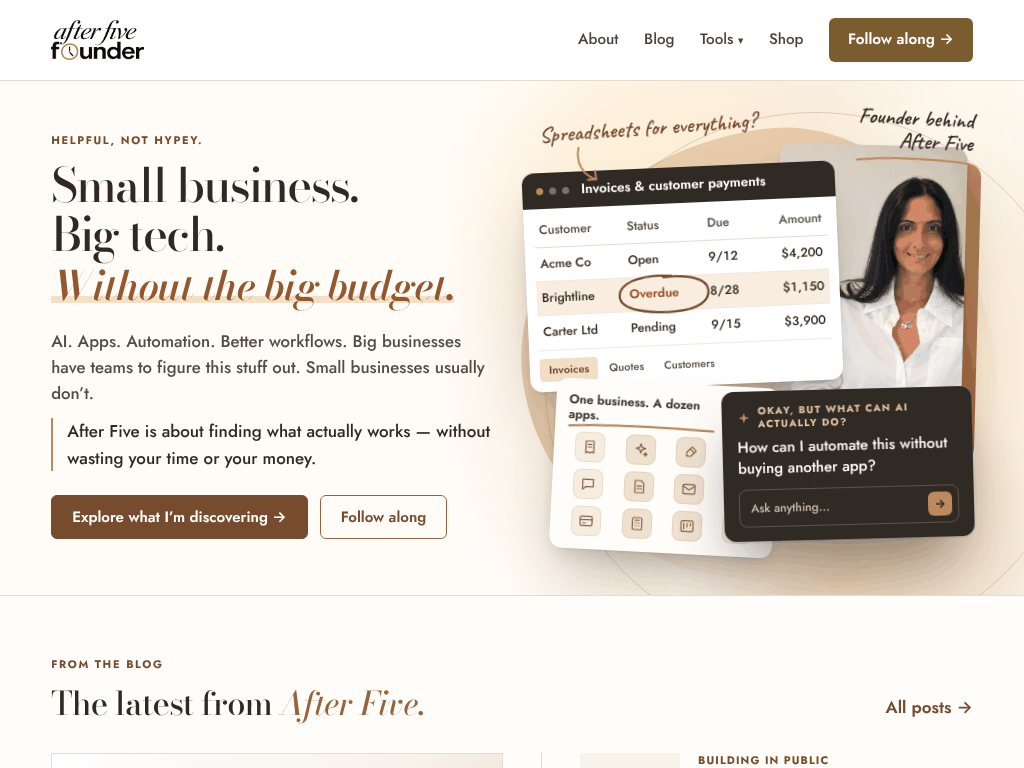
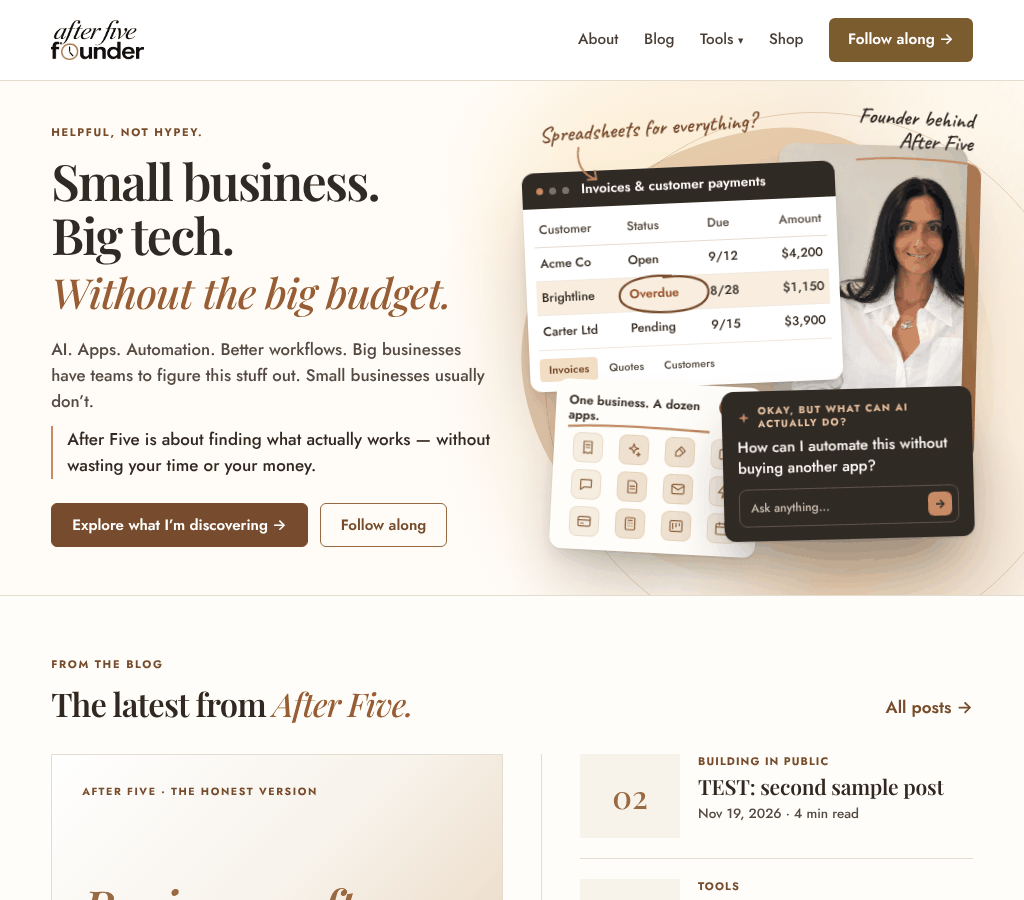
Replace Bodoni with Playfair Display for headings
Bodoni's hairline strokes were hard to read. Playfair Display (real 500,
600 and 700 weights, upright and italic) now sets the hero headline (600),
the bronze italic 'Without the big budget.' (italic 500), section headings
and article headlines (600) across the homepage, shop, Costing Suite and
the Worker-rendered pages. Body, navigation and buttons stay Jost; the
handwritten notes and the logo are unchanged. The hero headline is sized
so the italic line stays on one line from phone to desktop.

Claude-Session: https://claude.ai/code/session_01EWUL5sKaSTExd4HKL3qh3L

diff --git a/public/index.html b/public/index.html
@@ -21,7 +21,7 @@
 <meta name="twitter:image" content="https://afterfivefounder.com/assets/og.jpg">
 <link rel="preconnect" href="https://fonts.googleapis.com">
 <link rel="preconnect" href="https://fonts.gstatic.com" crossorigin>
-<link href="https://fonts.googleapis.com/css2?family=Jost:wght@300..800&family=Bodoni+Moda:ital,opsz,wght@0,6..96,400;0,6..96,500;1,6..96,500;1,6..96,600;1,6..96,700&family=Caveat:wght@500;600;700&display=swap" rel="stylesheet">
+<link href="https://fonts.googleapis.com/css2?family=Jost:wght@300..800&family=Playfair+Display:ital,wght@0,500;0,600;0,700;1,500;1,600;1,700&family=Caveat:wght@500;600;700&display=swap" rel="stylesheet">
 <link rel="stylesheet" href="/assets/site.css">
 <style>
 /* Homepage. Layout and tokens follow design/after-five-target (02-design-tokens.css, 03-reference.html). */
@@ -29,7 +29,7 @@
   --paper:#fffdfa; --white:#fff; --cream:#f7f2ea; --stone:#ede4d8;
   --ink:#302821; --muted:#554B42; --body-ink:#4b4239;
   --bronze:#98633d; --bronze-dark:#774b2e; --line:#e5dcd0;
-  --serif:'Bodoni Moda',Didot,Georgia,serif; --sans:'Jost',system-ui,sans-serif; --hand:'Caveat',cursive;
+  --serif:'Playfair Display',Georgia,serif; --sans:'Jost',system-ui,sans-serif; --hand:'Caveat',cursive;
   --max:1240px; --gutter:clamp(20px,5vw,72px); --section:clamp(48px,6vw,88px);
   --radius:12px; --shadow:0 16px 40px rgba(73,51,33,.08);
   --h1:clamp(42px,5.1vw,76px); --h2:clamp(32px,3.2vw,48px);
@@ -42,14 +42,13 @@ body{background:var(--paper);color:var(--ink);font:500 17px/1.55 var(--sans);-we
 img{max-width:100%;display:block}
 a{color:inherit;text-decoration:none}
 h1,h2,h3,p{margin:0}
-h1,h2,h3,.lt-tile .k,.lt-item .n,.pc .t,.founder-copy .turn,.hats-close,.founder-copy .sign,.founder-fig figcaption,.hats-fig figcaption,.calc-out .big{font-optical-sizing:none;font-variation-settings:"opsz" 28}
 .wrap{width:var(--sx-wrap);margin-inline:auto}
 section{position:relative}
 
 /* type */
 .eyebrow{display:block;margin:0 0 14px;font:700 11px/1.3 var(--sans);letter-spacing:.15em;text-transform:uppercase;color:var(--bronze-dark)}
-.h2{font:500 var(--h2)/1.08 var(--serif);letter-spacing:-.02em;color:var(--ink)}
-.h2 em{font-style:italic;color:var(--bronze)}
+.h2{font:600 var(--h2)/1.1 var(--serif);letter-spacing:-.025em;color:var(--ink)}
+.h2 em{font-style:italic;font-weight:500;color:#995D35}
 .lead{font-size:1.06rem;color:var(--muted);max-width:56ch;margin-top:12px}
 .link-more{font-weight:600;color:var(--bronze-dark);white-space:nowrap;border-bottom:1px solid transparent;transition:border-color .15s}
 .link-more:hover{border-bottom-color:currentColor}
@@ -83,9 +82,10 @@ section{position:relative}
 .hero-bg .beam{top:-30%;right:10%;width:22%;height:170%;background:linear-gradient(90deg,rgba(255,248,236,0),rgba(255,248,236,.85) 50%,rgba(255,248,236,0));transform:rotate(30deg);filter:blur(8px)}
 .hero-bg .ring{top:6%;right:-6%;width:540px;height:540px;border:1px solid rgba(187,140,91,.35);border-radius:50%}
 .hero-bg .ring2{top:22%;right:6%;width:300px;height:300px;border:1px dashed rgba(187,140,91,.25);border-radius:50%}
-.hero-grid{display:grid;grid-template-columns:minmax(0,.95fr) minmax(0,1.05fr);gap:40px;align-items:center;padding-block:30px 34px}
-.hero h1{font:500 clamp(40px,4.6vw,68px)/1.04 var(--serif);letter-spacing:-.035em;color:var(--ink)}
-.hero h1 .accent{display:inline-block;margin-top:.08em;font-style:italic;font-weight:600;font-size:.86em;letter-spacing:-.025em;color:#93582f;background:linear-gradient(transparent 76%,rgba(243,222,194,.95) 76%,rgba(243,222,194,.95) 93%,transparent 93%)}
+.hero-grid{display:grid;grid-template-columns:minmax(0,1fr) minmax(0,1fr);gap:40px;align-items:center;padding-block:30px 34px}
+.hero h1{font:600 clamp(40px,4.9vw,74px)/1.08 var(--serif);letter-spacing:-.035em;color:#302A25}
+.hero h1 .accent{display:inline-block;margin-top:.04em;font-style:italic;font-weight:500;font-size:.83em;line-height:1.15;letter-spacing:-.02em;color:#995D35;white-space:nowrap}
+@media(max-width:370px){.hero h1 .accent{white-space:normal}}
 .hero .sub{max-width:470px;margin-top:20px;font-size:1.05rem;color:var(--muted)}
 .hero .mark{max-width:470px;margin-top:12px;padding-left:14px;border-left:2px solid var(--rich-bronze);font-weight:500;color:var(--ink)}
 .hero .cta{display:flex;flex-wrap:wrap;gap:12px;margin-top:24px}
@@ -117,9 +117,9 @@ section{position:relative}
 .sheet-tabs span{padding:3px 9px;border-radius:4px}
 .sheet-tabs .on{background:var(--champagne);color:var(--bronze-dark);font-weight:600}
 /* 2. subscriptions: medium card, warm neutral icons */
-.p-apps{bottom:8px;left:11%;width:39%;padding:12px 13px 13px;z-index:4;transform:rotate(3deg);background:#fffdf9}
+.p-apps{bottom:8px;left:7%;width:44%;padding:12px 13px 13px;z-index:4;transform:rotate(3deg);background:#fffdf9}
 .apps-head{display:flex;align-items:baseline;justify-content:space-between;gap:8px;margin-bottom:9px}
-.apps-head b{position:relative;font:600 13.5px/1.2 var(--sans);color:var(--ink)}
+.apps-head b{position:relative;font:600 13px/1.2 var(--sans);white-space:nowrap;color:var(--ink)}
 .apps-head .uline{position:absolute;left:-2px;bottom:-7px;width:calc(100% + 4px);height:9px;overflow:visible;color:var(--rich-bronze)}
 .apps-head .count{flex:none;padding:3px 8px;border-radius:999px;background:var(--champagne);color:var(--bronze-dark);font:700 11px/1.2 var(--sans);font-variant-numeric:tabular-nums;transition:background-color .4s,color .4s,transform .4s}
 .apps-grid{display:grid;grid-template-columns:repeat(4,minmax(0,1fr));gap:7px 4px}
@@ -141,7 +141,7 @@ section{position:relative}
 .note-sheet svg{left:30px;top:22px;width:40px;height:42px}
 .note-founder{top:-4px;right:0;text-align:right;transform:rotate(3deg);color:var(--ink)}
 .note-founder svg{position:static;display:block;width:118px;height:10px;margin:3px 0 0 auto}
-.note-apps{top:296px;left:-6%;max-width:118px;transform:rotate(-6deg)}
+.note-apps{top:290px;left:-9%;max-width:118px;transform:rotate(-6deg)}
 .note-apps svg{left:84px;top:58px;width:38px;height:40px;transform:rotate(-58deg)}
 /* hand-drawn strokes: drawn in by the sequence below */
 .draw path{stroke-dasharray:1;stroke-dashoffset:0}
@@ -183,7 +183,8 @@ section{position:relative}
   .app small{display:none}
   .p-ai{width:56%}
   .note-apps{display:none}
-  .apps-head b{font-size:12.5px}
+  .apps-head b{font-size:12.5px;white-space:normal}
+  .p-apps{width:46%}
 }
 @media(max-width:900px){
   .hero-grid{grid-template-columns:1fr;gap:20px;padding-block:32px 36px}
@@ -226,7 +227,7 @@ section{position:relative}
 .lt-tile .rule{display:block;width:56px;height:2px;margin-top:14px;background:var(--bronze)}
 .lt-kicker{display:flex;flex-wrap:wrap;align-items:center;gap:8px;font:700 11px/1.3 var(--sans);letter-spacing:.1em;text-transform:uppercase;color:var(--bronze-dark)}
 .lt-kicker .new{padding:3px 8px;border-radius:4px;background:var(--bronze-dark);color:#fff;letter-spacing:.08em}
-.lt-feat h3{font:500 clamp(26px,2.5vw,34px)/1.12 var(--serif);letter-spacing:-.015em;color:var(--ink);max-width:24ch}
+.lt-feat h3{font:600 clamp(26px,2.5vw,34px)/1.12 var(--serif);letter-spacing:-.015em;color:var(--ink);max-width:24ch}
 .lt-feat:hover h3,.lt-item:hover h3{color:var(--bronze-dark)}
 .lt-feat p{color:var(--muted);max-width:56ch}
 .lt-meta{font-size:13.5px;color:var(--muted)}
@@ -235,9 +236,9 @@ section{position:relative}
 .lt-list li:first-child .lt-item{padding-top:0}
 .lt-item{display:grid;grid-template-columns:100px minmax(0,1fr);grid-template-rows:auto auto 1fr;column-gap:18px;row-gap:6px;padding:20px 0;color:var(--ink)}
 .lt-item .n{grid-row:1/4;display:grid;place-items:center;align-self:stretch;min-height:84px;background:var(--cream);font:500 32px/1 var(--serif);color:var(--bronze)}
-.lt-item h3{font:500 clamp(21px,1.8vw,25px)/1.15 var(--serif);letter-spacing:-.01em}
+.lt-item h3{font:600 clamp(21px,1.8vw,25px)/1.15 var(--serif);letter-spacing:-.01em}
 .lt-aside{padding:26px;background:var(--cream);border:1px solid var(--line)}
-.lt-aside h3{font:500 26px/1.15 var(--serif)}
+.lt-aside h3{font:600 26px/1.15 var(--serif)}
 .lt-aside p{color:var(--muted);margin:10px 0 18px}
 .lt-aside .acts{display:flex;flex-wrap:wrap;gap:10px}
 .lt-empty{grid-column:1/-1;max-width:680px}
@@ -310,13 +311,13 @@ section{position:relative}
 .threads{display:grid;grid-template-columns:repeat(4,minmax(0,1fr));gap:30px;margin-top:32px}
 .thread{padding-top:16px;border-top:2px solid var(--bronze)}
 .thread .meta{display:block;margin-bottom:8px;font:700 11px/1.3 var(--sans);letter-spacing:.1em;text-transform:uppercase;color:var(--bronze-dark)}
-.thread h3{font:500 25px/1.12 var(--serif);letter-spacing:-.01em}
+.thread h3{font:600 25px/1.12 var(--serif);letter-spacing:-.01em}
 .thread p{margin-top:10px;color:var(--muted)}
 
 /* ---------- BUILDING IN PUBLIC ---------- */
 .bp-grid{display:grid;grid-template-columns:minmax(0,1fr) minmax(0,1fr);gap:clamp(28px,5vw,64px);align-items:start}
 .bp-card{padding:26px;background:var(--cream);border:1px solid var(--line)}
-.bp-card h3{font:500 26px/1.15 var(--serif)}
+.bp-card h3{font:600 26px/1.15 var(--serif)}
 .bp-card p{margin-top:10px;color:var(--muted)}
 .bp-list{list-style:none;margin:16px 0 22px;padding:0;display:grid;gap:8px}
 .bp-list li{position:relative;padding-left:22px;color:var(--body-ink)}
@@ -328,13 +329,13 @@ section{position:relative}
 .shopt-list{list-style:none;margin:0;padding:0;display:grid;grid-template-columns:repeat(5,minmax(0,1fr));gap:22px}
 .shopt-list a{display:flex;flex-direction:column;height:100%}
 .pc{display:grid;place-items:center;aspect-ratio:5/4;margin-bottom:14px;padding:18px;border:1px solid var(--line);background:linear-gradient(135deg,#fff,#e9d7c5);text-align:center;transition:box-shadow .18s,transform .18s}
-.pc .t{font:500 21px/1.15 var(--serif);color:var(--ink)}
+.pc .t{font:600 21px/1.15 var(--serif);color:var(--ink)}
 .pc.p5{background:linear-gradient(135deg,#4a3c31,var(--ink))}
 .pc.p5 .t{color:#f3e6d6}
 .shopt-list a:hover .pc{transform:translateY(-3px);box-shadow:var(--shadow)}
 .shopt-b{display:flex;flex-direction:column;gap:4px;flex:1}
 .shopt-b .ty{font:700 10.5px/1.3 var(--sans);letter-spacing:.1em;text-transform:uppercase;color:var(--bronze-dark)}
-.shopt-b h3{font:500 19px/1.2 var(--serif);color:var(--ink)}
+.shopt-b h3{font:600 19px/1.2 var(--serif);color:var(--ink)}
 .shopt-list a:hover h3{color:var(--bronze-dark)}
 .shopt-b .ft{display:flex;flex-wrap:wrap;justify-content:space-between;align-items:center;gap:6px;margin-top:auto;padding-top:8px;font-size:14px}
 .shopt-b .pr{font-weight:600}
@@ -345,8 +346,8 @@ section{position:relative}
 .sx-follow .sx-wrap{display:grid;grid-template-columns:minmax(0,1fr) minmax(0,1fr);column-gap:40px;align-items:center}
 .sx-follow .sx-wrap>*{grid-column:1}
 .sx-follow .sx-eyebrow{justify-self:start;padding:0;border:0;border-radius:0;font-size:11px;letter-spacing:.15em;color:var(--bronze-dark)}
-.sx-follow h2{margin-top:12px;font:500 var(--h2)/1.08 var(--serif);letter-spacing:-.02em;color:var(--ink)}
-.sx-follow h2 em{font-family:var(--serif);font-weight:500;font-style:italic;color:var(--bronze);font-optical-sizing:none;font-variation-settings:"opsz" 28}
+.sx-follow h2{margin-top:12px;font:600 var(--h2)/1.1 var(--serif);letter-spacing:-.025em;color:var(--ink)}
+.sx-follow h2 em{font-family:var(--serif);font-weight:500;font-style:italic;color:#995D35;}
 .sx-follow .sx-follow-text{margin:10px 0 0;max-width:46ch;opacity:1;color:var(--muted);font-size:1.02rem}
 .sx-follow .sx-form,.sx-follow .sx-status,.sx-follow .sx-fine{grid-column:2}
 .sx-follow .sx-form{grid-row:1/4;align-self:center;justify-content:flex-start;max-width:none;margin:0;gap:10px}
@@ -424,7 +425,7 @@ section{position:relative}
   <div class="wrap hero-grid">
     <div class="hero-copy">
       <span class="eyebrow">Helpful, not hypey.</span>
-      <h1>Small business.<br>Big tech.<br><span class="accent">Without the big budget.</span></h1>
+      <h1 class="hero-title">Small business.<br>Big tech.<br><span class="accent">Without the big budget.</span></h1>
       <p class="sub">AI. Apps. Automation. Better workflows. Big businesses have teams to figure this stuff out. Small businesses usually don’t.</p>
       <p class="mark">After Five is about finding what actually works — without wasting your time or your money.</p>
       <div class="cta">

diff --git a/worker.js b/worker.js
@@ -5,15 +5,15 @@ var __name = (target, value) => __defProp(target, "name", { value, configurable:
 import { siteHeader, siteFollow, siteFooter } from "./chrome.js";
 import "./public/assets/md.js";
 import { TOOLS, REGIONS, toolBySlug } from "./tools.js";
-var FONTS = `<link rel="preconnect" href="https://fonts.googleapis.com"><link rel="preconnect" href="https://fonts.gstatic.com" crossorigin><link href="https://fonts.googleapis.com/css2?family=Jost:wght@300..800&family=Bodoni+Moda:ital,opsz,wght@1,6..96,500;1,6..96,600;1,6..96,700&display=swap" rel="stylesheet"><link rel="stylesheet" href="/assets/site.css">`;
+var FONTS = `<link rel="preconnect" href="https://fonts.googleapis.com"><link rel="preconnect" href="https://fonts.gstatic.com" crossorigin><link href="https://fonts.googleapis.com/css2?family=Jost:wght@300..800&family=Playfair+Display:ital,wght@0,500;0,600;0,700;1,500;1,600;1,700&display=swap" rel="stylesheet"><link rel="stylesheet" href="/assets/site.css">`;
 var CSS = `
 :root{--gold:#B0894E;--gold-ink:#7A5C2E;--muted:#554B42;--ink:#1A1512;--warm:#FAF8F4;--blush:#EDE6D9;--cream:#F2ECE1;--line:#EADFD2;--r:22px}
 *{box-sizing:border-box}html,body{margin:0;padding:0;max-width:100%;overflow-x:hidden}
 body{background:var(--warm);color:var(--ink);font-family:'Jost',system-ui,sans-serif;font-weight:500;font-size:1.0rem;line-height:1.6;-webkit-font-smoothing:auto;-moz-osx-font-smoothing:auto}
 img{max-width:100%;display:block}a{color:inherit;text-decoration:none}
 .wrap{width:var(--sx-wrap);margin-inline:auto}
-.serif{font-family:'Jost',system-ui,sans-serif;font-weight:500;line-height:1.08;letter-spacing:-.01em}
-.serif em{font-family:'Bodoni Moda',Georgia,serif;font-style:italic;font-weight:600;font-optical-sizing:none;font-variation-settings:'opsz' 22}
+.serif{font-family:'Playfair Display',Georgia,serif;font-weight:600;line-height:1.08;letter-spacing:-.01em}
+.serif em{font-family:'Playfair Display',Georgia,serif;font-style:italic;font-weight:500;color:#995D35}
 .mono{font-family:'Jost',system-ui,sans-serif;text-transform:uppercase;letter-spacing:.14em;font-size:.72rem;font-weight:700}
 .btn{font-family:'Jost',system-ui,sans-serif;display:inline-flex;align-items:center;gap:.5em;font-weight:600;border-radius:100px;padding:.7em 1.3em;font-size:.92rem;cursor:pointer;border:2px solid transparent;transition:transform .12s}
 .btn:hover{transform:translateY(-1px)}.btn-dark{background:var(--ink);color:#fff}.btn-cream{background:var(--warm);color:var(--gold-ink);border-color:var(--gold-ink)}
@@ -25,7 +25,7 @@ img{max-width:100%;display:block}a{color:inherit;text-decoration:none}
 @media(max-width:820px){.posts{grid-template-columns:1fr}}
 .post{border:1px solid #eadfd2;border-radius:var(--r);padding:1.5rem;background:#fff;display:flex;flex-direction:column;gap:.7rem;transition:transform .15s,box-shadow .15s}
 .post:hover{transform:translateY(-4px);box-shadow:0 14px 40px rgba(20,18,16,.08)}
-.post h3{font-family:'Jost',system-ui,sans-serif;font-weight:700;font-size:1.3rem;line-height:1.14;margin:0}
+.post h3{font-family:'Playfair Display',Georgia,serif;font-weight:600;font-size:1.3rem;line-height:1.14;margin:0}
 .post .ex{color:#5a534b;font-size:.9rem;margin:0}.post .meta{margin-top:auto;font-size:.8rem;color:var(--muted)}
 .pill-row{display:flex;gap:.5rem;align-items:center;flex-wrap:wrap}
 /* article */
@@ -35,10 +35,10 @@ img{max-width:100%;display:block}a{color:inherit;text-decoration:none}
 .body{max-width:680px;margin:2.5rem auto 0;font-size:1.12rem;color:#2b2620}
 .body p{margin:1.3rem 0}.body h3{font-family:'Jost',system-ui,sans-serif;font-size:1.6rem;margin:2.2rem 0 .6rem}
 .body ul{padding-left:1.2rem}.body li{margin:.4rem 0}
-.body blockquote,.body .pull{border-left:4px solid var(--gold);margin:2rem 0;padding:.4rem 0 .4rem 1.4rem;font-family:'Bodoni Moda',serif;font-style:italic;font-size:1.5rem;line-height:1.3;color:var(--ink)}
+.body blockquote,.body .pull{border-left:4px solid var(--gold);margin:2rem 0;padding:.4rem 0 .4rem 1.4rem;font-family:'Playfair Display',serif;font-style:italic;font-size:1.5rem;line-height:1.3;color:var(--ink)}
 .body a:not(.btn){color:var(--gold-ink);text-decoration:underline}
 .body .gg{font-weight:700}
-.body>p:first-child::first-letter{font-family:'Bodoni Moda',serif;font-weight:600;font-size:3.4rem;float:left;line-height:.8;padding:.05em .12em 0 0;color:var(--gold)}
+.body>p:first-child::first-letter{font-family:'Playfair Display',serif;font-weight:600;font-size:3.4rem;float:left;line-height:.8;padding:.05em .12em 0 0;color:var(--gold)}
 .empty{max-width:600px;margin:3rem auto;text-align:center;color:var(--muted)}
 .empty-left{margin:1rem 0 4rem;text-align:left;font-size:1.05rem}
 .about-hero{display:grid;grid-template-columns:minmax(0,1.15fr) minmax(0,.85fr);gap:clamp(2rem,5vw,4.5rem);align-items:center;padding:4rem 0 3.5rem}
@@ -66,7 +66,7 @@ img{max-width:100%;display:block}a{color:inherit;text-decoration:none}
 .tile img{width:100%;height:100%;object-fit:cover}
 .tile .tt{position:absolute;inset:0;display:flex;flex-direction:column;justify-content:space-between;padding:clamp(1.1rem,3vw,1.8rem);color:#F2ECE1}
 .tile .tt .s{font-size:.66rem;font-weight:700;letter-spacing:.16em;text-transform:uppercase;opacity:.8}
-.tile .tt .k{font-family:'Bodoni Moda',Georgia,serif;font-style:italic;font-weight:600;font-size:clamp(2.2rem,5vw,3.8rem);line-height:1;color:#D9BF8F;font-optical-sizing:none;font-variation-settings:'opsz' 22}
+.tile .tt .k{font-family:'Playfair Display',Georgia,serif;font-style:italic;font-weight:600;font-size:clamp(2.2rem,5vw,3.8rem);line-height:1;color:#D9BF8F;}
 .kind{display:inline-block;font-family:'Jost',system-ui,sans-serif;font-size:.6rem;font-weight:700;letter-spacing:.1em;text-transform:uppercase;padding:.42em .85em;border-radius:100px;border:1.5px solid var(--gold-ink);color:var(--gold-ink)}
 .kind-tested,.kind-practice{background:var(--gold-ink);color:#fff}
 .post .pill-row{gap:.45rem}

diff --git a/public/shop.html b/public/shop.html
@@ -18,7 +18,7 @@
 <meta name="twitter:description" content="Tools, templates and guides for small businesses going digital — from After Five Founder.">
 <meta name="twitter:image" content="https://afterfivefounder.com/assets/og.jpg">
 <meta name="description" content="Tools, templates and guides for small businesses going digital — from After Five Founder.">
-<link href="https://fonts.googleapis.com/css2?family=Jost:wght@300..800&family=Bodoni+Moda:ital,opsz,wght@0,6..96,500;0,6..96,600;1,6..96,500;1,6..96,600&display=swap" rel="stylesheet">
+<link href="https://fonts.googleapis.com/css2?family=Jost:wght@300..800&family=Playfair+Display:ital,wght@0,500;0,600;0,700;1,500;1,600;1,700&display=swap" rel="stylesheet">
 <link rel="stylesheet" href="/assets/site.css">
 <style>
 :root{
@@ -27,7 +27,7 @@
   --line:rgba(17,17,17,.12);--line-soft:rgba(17,17,17,.07);
   --shadow:0 1px 2px rgba(17,17,17,.04), 0 18px 40px -24px rgba(17,17,17,.22);
   --shadow-sm:0 1px 2px rgba(17,17,17,.05), 0 8px 22px -16px rgba(17,17,17,.20);
-  --serif:'Bodoni Moda',Georgia,serif;
+  --serif:'Playfair Display',Georgia,serif;
   --sans:'Jost',system-ui,sans-serif;
   --wrap:1120px;--gutter:clamp(20px,5vw,64px);
 }
@@ -71,7 +71,7 @@ h1,h2,h3{text-wrap:balance;margin:0}
 .prod:hover{transform:translateY(-5px);box-shadow:var(--shadow)}
 .prod.feat{grid-column:span 1;border-color:var(--gold)}
 .cover{position:relative;aspect-ratio:16/10;display:flex;flex-direction:column;justify-content:flex-end;padding:22px 24px;border-bottom:1px solid var(--line-soft);color:var(--gold-ink)}
-.cover .cv{font-family:var(--serif);font-style:italic;font-weight:600;font-size:clamp(1.5rem,2.4vw,1.9rem);line-height:1.05;font-optical-sizing:none;font-variation-settings:'opsz' 22}
+.cover .cv{font-family:var(--serif);font-style:italic;font-weight:600;font-size:clamp(1.5rem,2.4vw,1.9rem);line-height:1.05;}
 .cover .cv::after{content:"";display:block;width:44px;height:2px;margin-top:.7rem;background:currentColor;opacity:.5}
 .cover.c1{background:#EAE2D7;color:#302A25}
 .cover.c2{background:#DCC9A8;color:#302A25}
@@ -101,9 +101,9 @@ h1,h2,h3{text-wrap:balance;margin:0}
 .how .step p{margin:0;color:var(--ink-soft);font-size:.92rem}
 
 
-/* --- headings consistent with landing (Jost 400 + Bodoni italic accent) --- */
-.intro h1,.pane-intro h2,.hero h1,.block .head h2,.case-study h2,.cta h2{font-weight:500}
-.intro h1 em,.pane-intro h2 em,.hero h1 em,.block .head h2 em,.case-study h2 em,.cta h2 em{font-weight:600;font-optical-sizing:none;font-variation-settings:'opsz' 22}
+/* --- headings consistent with landing (Jost 400 + Playfair italic accent) --- */
+.intro h1,.pane-intro h2,.hero h1,.block .head h2,.case-study h2,.cta h2{font-family:var(--serif);font-weight:600;letter-spacing:-.025em;line-height:1.08}
+.intro h1 em,.pane-intro h2 em,.hero h1 em,.block .head h2 em,.case-study h2 em,.cta h2 em{font-weight:500;color:#995D35}
 
 </style>
 

diff --git a/public/costing-suite.html b/public/costing-suite.html
@@ -18,7 +18,7 @@
 <meta name="twitter:description" content="Four honest costing calculators for business planning: start-up, bill of materials, monthly operating, and the true cost of an employee.">
 <meta name="twitter:image" content="https://afterfivefounder.com/assets/og.jpg">
 <meta name="description" content="Four honest costing calculators for business planning: start-up, bill of materials, monthly operating, and the true cost of an employee.">
-<link href="https://fonts.googleapis.com/css2?family=Jost:wght@300..800&family=Bodoni+Moda:ital,opsz,wght@0,6..96,500;0,6..96,600;1,6..96,500;1,6..96,600&display=swap" rel="stylesheet">
+<link href="https://fonts.googleapis.com/css2?family=Jost:wght@300..800&family=Playfair+Display:ital,wght@0,500;0,600;0,700;1,500;1,600;1,700&display=swap" rel="stylesheet">
 <link rel="stylesheet" href="/assets/site.css">
 <style>
 :root{
@@ -27,7 +27,7 @@
   --line:rgba(17,17,17,.12);--line-soft:rgba(17,17,17,.07);
   --shadow:0 1px 2px rgba(17,17,17,.04), 0 18px 40px -24px rgba(17,17,17,.22);
   --shadow-sm:0 1px 2px rgba(17,17,17,.05), 0 8px 22px -16px rgba(17,17,17,.20);
-  --serif:'Bodoni Moda',Georgia,serif;
+  --serif:'Playfair Display',Georgia,serif;
   --sans:'Jost',system-ui,sans-serif;
   --wrap:1180px;--gutter:clamp(20px,5vw,64px);
 }
@@ -195,9 +195,9 @@ h1,h2,h3{text-wrap:balance;margin:0}
 .cover .up b{color:var(--ink);font-weight:700}
 
 
-/* --- headings consistent with landing (Jost 400 + Bodoni italic accent) --- */
-.intro h1,.pane-intro h2,.hero h1,.block .head h2,.case-study h2,.cta h2{font-weight:500}
-.intro h1 em,.pane-intro h2 em,.hero h1 em,.block .head h2 em,.case-study h2 em,.cta h2 em{font-weight:600;font-optical-sizing:none;font-variation-settings:'opsz' 22}
+/* --- headings consistent with landing (Jost 400 + Playfair italic accent) --- */
+.intro h1,.pane-intro h2,.hero h1,.block .head h2,.case-study h2,.cta h2{font-family:var(--serif);font-weight:600;letter-spacing:-.025em;line-height:1.08}
+.intro h1 em,.pane-intro h2 em,.hero h1 em,.block .head h2 em,.case-study h2 em,.cta h2 em{font-weight:500;color:#995D35}
 
 .how-link{display:inline-block;margin-top:.6rem;font-size:.88rem;font-weight:600;color:var(--gold-ink);border-bottom:1.5px solid currentColor}
 .region-note{max-width:70ch;margin:1rem 0 0;font-size:.9rem;color:var(--ink-soft)}

diff --git a/public/assets/site.css b/public/assets/site.css
@@ -4,7 +4,7 @@
   --sx-ink:#1A1512;--sx-warm:#FAF8F4;--sx-cream:#F2ECE1;--sx-blush:#EDE6D9;--sx-line:#E6DCCD;
   /* Gold for shapes and large display text; gold-ink for small text and buttons (WCAG AA on cream). */
   --sx-gold:#B0894E;--sx-gold-ink:#7A5C2E;--sx-muted:#554B42;
-  --sx-sans:'Jost',system-ui,sans-serif;--sx-serif:'Bodoni Moda',Georgia,serif;
+  --sx-sans:'Jost',system-ui,sans-serif;--sx-serif:'Playfair Display',Georgia,serif;
   --sx-wrap:min(1120px,calc(100% - 40px));
 }
 [id]{scroll-margin-top:96px}
@@ -44,8 +44,8 @@
 /* signup strip */
 .sx-follow{padding:5rem 0;background:var(--sx-ink);color:#fff;text-align:center;font-family:var(--sx-sans)}
 .sx-eyebrow{display:inline-block;margin:0;padding:.5em 1.1em;border:1.5px solid var(--sx-gold);border-radius:100px;font-size:.68rem;font-weight:700;letter-spacing:.14em;text-transform:uppercase;color:#D9BF8F}
-.sx-follow h2{margin:1rem 0 0;font-size:clamp(2.2rem,5vw,3.6rem);font-weight:500;line-height:1.05;letter-spacing:-.01em;color:#fff}
-.sx-follow h2 em{font-family:var(--sx-serif);font-style:italic;font-weight:600;color:#D9BF8F;font-optical-sizing:none;font-variation-settings:'opsz' 22}
+.sx-follow h2{margin:1rem 0 0;font-family:var(--sx-serif);font-size:clamp(2.2rem,5vw,3.6rem);font-weight:600;line-height:1.05;letter-spacing:-.01em;color:#fff}
+.sx-follow h2 em{font-family:var(--sx-serif);font-style:italic;font-weight:500;color:#D9BF8F;}
 .sx-follow-text{max-width:44ch;margin:1.1rem auto 0;font-size:1.05rem;opacity:.92}
 .sx-form{display:flex;flex-wrap:wrap;justify-content:center;gap:.6rem;max-width:480px;margin:2rem auto 0}
 .sx-form input{flex:1 1 240px;min-width:0;padding:1em 1.4em;border:0;border-radius:100px;font:inherit;font-size:1rem}

diff --git a/design/after-five-target/qa/README.md b/design/after-five-target/qa/README.md
@@ -11,7 +11,7 @@ Files: `baseline-*` is the site before this change, `reference-*` is `03-referen
 | Target area | Source used | Notes |
 |---|---|---|
 | Header and footer logo | `public/assets/logo-wm.png`, `logo-full.png` | Unchanged |
-| Typography | Google Fonts Jost and Bodoni Moda (already loaded) | Added the upright Bodoni Moda weights for headings |
+| Typography | Google Fonts Jost (body) and Playfair Display (headings) | Playfair Display replaced Bodoni Moda after feedback that its hairline strokes were hard to read |
 | Hero illustration | `public/assets/emma-hero.jpg` plus the existing invoice spreadsheet, dozen-app panel, AI question and handwritten notes | Emma's photo is the focal point with the panels layered around it, after feedback that the photo-free version felt flat. Brand-coloured app tiles and the AI brand dot replaced with generic line icons; the app names stay as plain text |
 | Stories | `/api/latest` (client) and `homeLatestHtml` in `worker.js` (server) | Now one feature and two smaller stories (was one and three). Empty state unchanged in wording |
 | Founder | `public/assets/emma-about.jpg` and the existing welcome copy | Directly after the stories |
